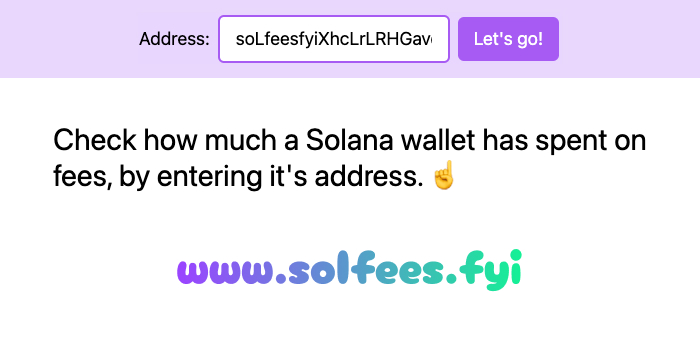
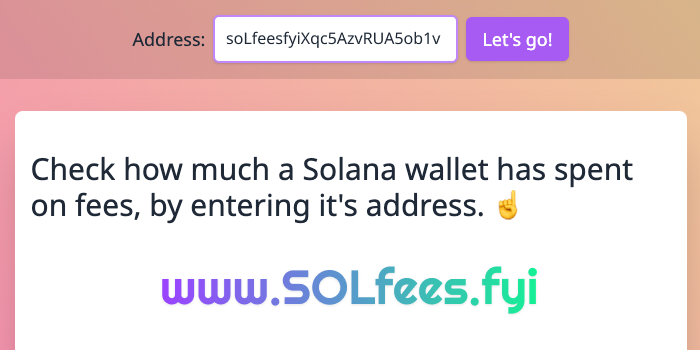
One last try before I cry (Twitter preview)
Sorry for the commit message!

diff --git a/src/app/page.js b/src/app/page.js
@@ -11,7 +11,7 @@ export async function generateMetadata() {
       url: '/',
       siteName: 'solfees.fyi',
       images: [{
-        url: '/solfeesfyi-4.jpeg',
+        url: '/solfeesfyi.jpeg',
         width: 700,
         height: 350,
       }],
@@ -21,7 +21,7 @@ export async function generateMetadata() {
       title: 'solfees.fyi',
       description: 'Check how much a Solana wallet has spent on fees',
       creator: '@ronnyhaase',
-      images: ['/solfeesfyi-4.jpeg'],
+      images: ['/solfeesfyi.jpeg'],
     },
   }
 }
